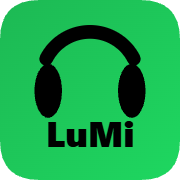
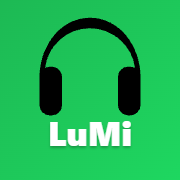
Iconos v6: auriculares grandes + texto tamaño original

diff --git a/backend/public/sw.js b/backend/public/sw.js
@@ -1,4 +1,4 @@
-const CACHE_NAME = 'lumi-v3';
+const CACHE_NAME = 'lumi-v10';
 const STATIC_ASSETS = [
   './',
   './index.html',
